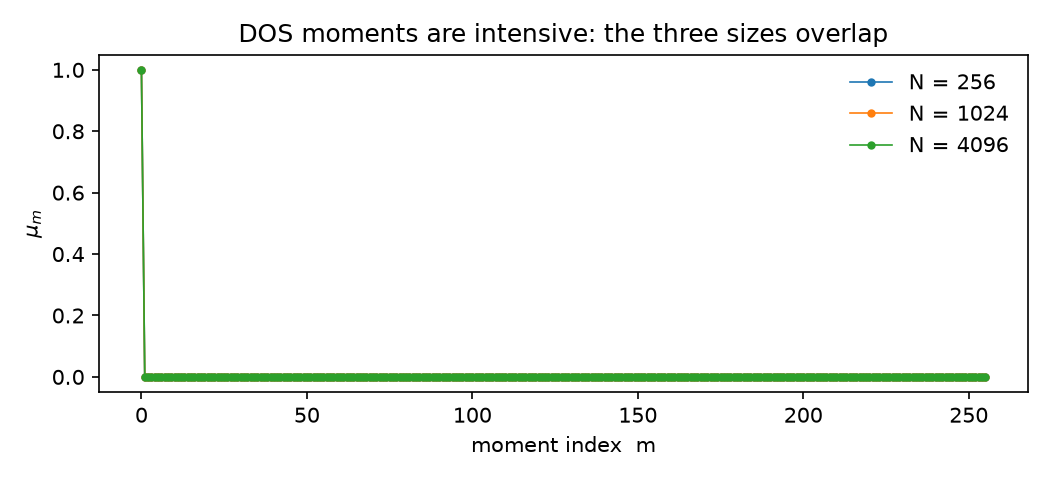
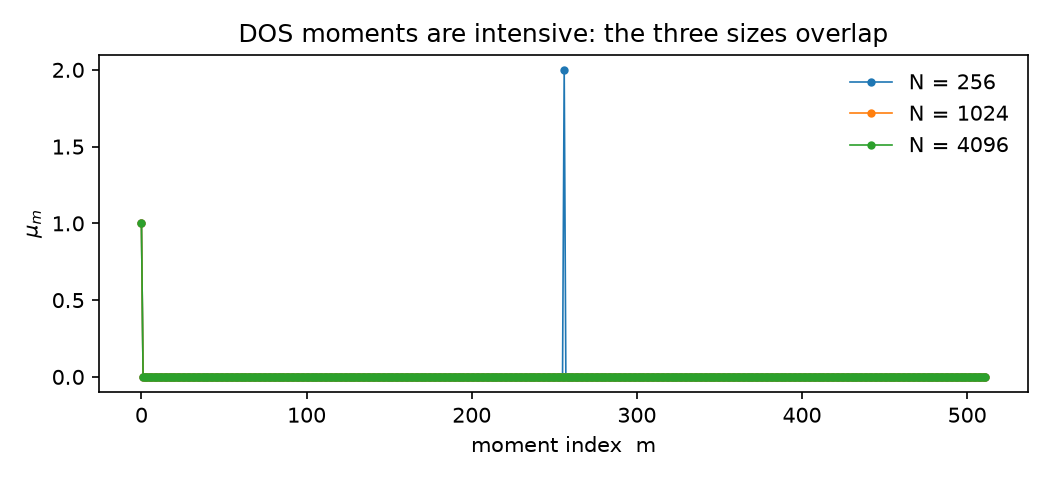
Merge pull request #50 from adamecius/spin-tutorials
Spin tutorials

Pull request: Spin tutorials

diff --git a/examples/05_charge_transport_square/lsqtransport.py b/examples/05_charge_transport_square/lsqtransport.py
@@ -49,9 +49,11 @@ def _run(argv):
 
 
 def diffusion(label):
-    """Run the MSD, reconstruct DeltaX^2(E,t), return (t, D(E,t))."""
-    _run([_bin("inline_compute-kpm-MeanSquareDisplacement"), label, "VX",
-          str(M), str(NTIME), str(TMAX)])
+    """Run the MSD (via `lsquant compute`, mode msd), reconstruct DeltaX^2(E,t)."""
+    with open("msd.json", "w") as f:
+        json.dump({"mode": "msd", "label": label, "operator": "VX",
+                   "num_moments": M, "num_times": NTIME, "tmax": TMAX}, f)
+    _run([_bin("lsquant"), "compute", "--config", "msd.json"])
     mom = sorted(glob.glob("Correlation*%s*chebmomTD" % label))[-1]
     _run([_bin("inline_timeCorrelationsFromChebmom"), mom, str(ETA_MEV), str(E)])
     dat = sorted(glob.glob("mean*%s*EF%f*dat" % (label, E)))[-1]
@@ -131,5 +133,19 @@ def main():
     print("wrote fig_transport.png")
 
 
+def figure_fermi():
+    """Opening figure: the square-lattice band and the E=2t Fermi contour."""
+    k = np.linspace(-np.pi, np.pi, 400); KX, KY = np.meshgrid(k, k)
+    Ek = -2.0 * (np.cos(KX) + np.cos(KY))
+    fig, ax = plt.subplots(figsize=(5.4, 4.4), constrained_layout=True)
+    cf = ax.contourf(KX, KY, Ek, levels=20, cmap="coolwarm", alpha=0.85)
+    ax.contour(KX, KY, Ek, levels=[E], colors="k", linewidths=2.2)
+    ax.set_xlabel("$k_x$"); ax.set_ylabel("$k_y$"); ax.set_aspect("equal")
+    fig.colorbar(cf, ax=ax, label="$E_k$ (eV)")
+    ax.set_title(r"Square-lattice band; black $=E{=}2t$ contour")
+    fig.savefig("fig_fermi.png", dpi=150); print("wrote fig_fermi.png")
+
+
 if __name__ == "__main__":
+    figure_fermi()
     main()

diff --git a/examples/02_localization_1d_chain/lsqloc.py b/examples/02_localization_1d_chain/lsqloc.py
@@ -167,5 +167,24 @@ def demo():
                         M=256, num_times=128, tmax=600, broad=10)
 
 
+def figure_anderson(N=500):
+    """Opening figure: a band-centre eigenstate, extended (clean) vs localized (W=4)."""
+    import matplotlib.pyplot as plt
+
+    def state(W, seed):
+        rng = np.random.default_rng(seed)
+        H = np.diag(rng.uniform(-W / 2, W / 2, N)).astype(float)
+        idx = np.arange(N); H[idx, (idx + 1) % N] = -1; H[(idx + 1) % N, idx] = -1
+        w, v = np.linalg.eigh(H); return np.abs(v[:, np.argmin(np.abs(w))]) ** 2
+    fig, ax = plt.subplots(figsize=(6.4, 3.7))
+    ax.plot(state(0.0, 3), color="#1f77b4", lw=1.0, label=r"clean: extended ($|\psi|^2\sim1/N$)")
+    ax.plot(state(4.0, 3), color="#d62728", lw=1.0, label=r"$W=4$: localized")
+    ax.set_xlabel("site $i$"); ax.set_ylabel(r"$|\psi_i|^2$ (band-centre state)")
+    ax.legend(fontsize=9)
+    ax.set_title("Disorder traps a state that would otherwise fill the chain")
+    fig.tight_layout(); fig.savefig("fig_anderson.png", dpi=150); print("wrote fig_anderson.png")
+
+
 if __name__ == "__main__":
+    figure_anderson()
     demo()

diff --git a/examples/03_haldane_hall/haldane_kspace.py b/examples/03_haldane_hall/haldane_kspace.py
@@ -84,9 +84,28 @@ def figure_phase_diagram(t2=0.15, phi=np.pi / 2):
     print("wrote fig_phase_diagram.png")
 
 
+def figure_bands(Ng=220):
+    """Opening figure: the Haldane density of states, showing the bulk gap."""
+    import matplotlib.pyplot as plt
+    b1 = 2 * np.pi * np.array([1 / 3, 1 / np.sqrt(3)])
+    b2 = 2 * np.pi * np.array([1 / 3, -1 / np.sqrt(3)])
+    Es = []
+    for i in range(Ng):
+        for j in range(Ng):
+            Es += list(np.linalg.eigvalsh(bloch((i + .5) / Ng * b1 + (j + .5) / Ng * b2)))
+    Es = np.array(Es)
+    fig, ax = plt.subplots(figsize=(6.4, 3.7))
+    ax.hist(Es, bins=140, color="#1f77b4", alpha=0.85)
+    ax.axvspan(Es[Es < 0].max(), Es[Es > 0].min(), color="0.85", label="gap (no states)")
+    ax.set_xlabel("energy $E$ (eV)"); ax.set_ylabel("density of states (a.u.)")
+    ax.legend(fontsize=9); ax.set_title(r"The Haldane model is a gapped insulator ($C=+1$)")
+    fig.tight_layout(); fig.savefig("fig_bands.png", dpi=150); print("wrote fig_bands.png")
+
+
 if __name__ == "__main__":
     print(f"Chern (t2=0.15, phi=pi/2, M=0):    {chern_lower():+.3f}  "
           f"(topological, |C| = 1)")
     print(f"Chern (phi=0, trivial):            {chern_lower(phi=0.0):+.3f}")
     print(f"gap at golden parameters:          {gap():.3f} eV")
+    figure_bands()
     figure_phase_diagram()

diff --git a/examples/01_dos_1d_chain/lsqplot.py b/examples/01_dos_1d_chain/lsqplot.py
@@ -190,7 +190,7 @@ def figure_dos(sizes, smallest, M, fixed_broadening_meV, broadenings_meV):
 def demo():
     sizes = [256, 1024, 4096]
     M = 512
-    figure_moments(sizes, M=256)
+    figure_moments(sizes, M=512)   # reach m=256 so the smallest chain's revival is in view
     # Exact-trace moments encode a finite chain only through the aliasing revival at m = N,
     # so the discrete spectrum of the small chain becomes visible once the kernel keeps
     # M_eff >= N moments. With N_small = 256 that needs a broadening below ~24 meV
@@ -202,5 +202,20 @@ def demo():
                broadenings_meV=[80, 24, 10])
 
 
+def figure_levels(N=64):
+    """Opening figure: the discrete chain spectrum under the smooth bulk DOS."""
+    import matplotlib.pyplot as plt
+    Ek = 2 * np.cos(2 * np.pi * np.arange(N) / N)
+    E = np.linspace(-1.999, 1.999, 800); rho = 1 / (np.pi * np.sqrt(4 - E ** 2))
+    fig, ax = plt.subplots(figsize=(6.4, 3.7))
+    ax.vlines(Ek, 0, 0.6, color="0.6", lw=0.7, alpha=0.8, label="%d chain levels" % N)
+    ax.plot(E, rho, color="#1f77b4", lw=2, label=r"smooth bulk DOS $1/\pi\sqrt{4-E^2}$")
+    ax.set_xlabel("energy $E$ (eV)"); ax.set_ylabel("density of states (1/eV)")
+    ax.set_xlim(-2.2, 2.2); ax.set_ylim(0, 0.65); ax.legend(fontsize=9)
+    ax.set_title("A finite chain has a discrete spectrum; the bulk DOS is smooth")
+    fig.tight_layout(); fig.savefig("fig_levels.png", dpi=150); print("wrote fig_levels.png")
+
+
 if __name__ == "__main__":
+    figure_levels()
     demo()

diff --git a/examples/04_spin_precession_magnetic_chain/lsqspin.py b/examples/04_spin_precession_magnetic_chain/lsqspin.py
@@ -74,5 +74,19 @@ def main():
     print("wrote fig_precession.png")
 
 
+def figure_zeeman(J=0.1):
+    """Opening figure: the exchange-split spin bands."""
+    k = np.linspace(-np.pi, np.pi, 500)
+    fig, ax = plt.subplots(figsize=(6.4, 3.7))
+    ax.plot(k, -2 * np.cos(k) - J, color="#1f77b4", lw=1.8, label=r"spin $\uparrow$")
+    ax.plot(k, -2 * np.cos(k) + J, color="#d62728", lw=1.8, label=r"spin $\downarrow$")
+    ax.annotate(r"$2J_{\rm ex}$", xy=(0, -2), xytext=(0.8, -1.6),
+                arrowprops=dict(arrowstyle="<->"), fontsize=11)
+    ax.set_xlabel("$k$"); ax.set_ylabel("energy (eV)"); ax.legend(fontsize=9)
+    ax.set_title(r"The exchange field splits $\uparrow$ and $\downarrow$ by $2J_{\rm ex}$")
+    fig.tight_layout(); fig.savefig("fig_zeeman.png", dpi=150); print("wrote fig_zeeman.png")
+
+
 if __name__ == "__main__":
+    figure_zeeman()
     main()

diff --git a/examples/01_dos_1d_chain/README.md b/examples/01_dos_1d_chain/README.md
@@ -45,8 +45,13 @@ $$ \mu_m = \frac{1}{N}\sum_{k=0}^{N-1}\cos\!\Big(\frac{2\pi m k}{N}\Big) = \delt
 The bulk density of states is exactly the Chebyshev weight, so its expansion
 terminates at the very first term: $\mu_0 = 1$ and nothing else, all the way up to
 $m = N$. The finiteness of the chain changes no low-order moment. It hides in one
-place only, a revival where $\mu_m$ jumps back to $1$ at $m = N$ and every multiple
+place only, a revival where $\mu_m$ spikes again at $m = N$ and every multiple
 after, the spectrum reminding us it is discrete.
+
+The whole problem sits in one frame below: a finite comb of sharp levels under the
+smooth curve we wish we had.
+
+![A finite chain has a discrete spectrum of levels; the smooth bulk DOS is the target](fig_levels.png)
 
 ## Step 1: build the chain
 
@@ -92,7 +97,7 @@ Repeat for `chain1d_N1024` and `chain1d_N4096`.
 Read the moments back and overlay the three sizes:
 
 ```bash
-python -c "import lsqplot; lsqplot.figure_moments([256, 1024, 4096], M=256)"
+python -c "import lsqplot; lsqplot.figure_moments([256, 1024, 4096], M=512)"
 ```
 
 ![All three chain sizes overlap at the m=0 moment; finiteness shows only as a revival at m=N](fig_moments.png)
@@ -101,9 +106,11 @@ The three curves are indistinguishable below their revivals: every one sits at
 $\mu_m = \delta_{m,0}$. The density of states is a per-site property, so its
 moments do not care how long the chain is. That is what intensive means here, and
 it is why one expansion can describe a chain of 256 atoms or 256 million. The
-curves part company only at the revival: the $N = 256$ moments spike back to $1$
-at $m = 256$, the $N = 1024$ moments at $m = 1024$, and never before. A chain
-announces its finite size at exactly $m = N$.
+curves part company only at the revival: the $N = 256$ moments spike back up at
+$m = 256$ (to $2$, since the plotted Chebyshev moments carry the conventional
+factor of $2$ for $m>0$), while the $N = 1024$ and $N = 4096$ chains revive only
+at $m = 1024$ and $m = 4096$, beyond this window. A chain announces its finite
+size at exactly $m = N$, and never before.
 
 ## Step 4: reconstruct the DOS
 

diff --git a/examples/05_charge_transport_square/README.md b/examples/05_charge_transport_square/README.md
@@ -49,6 +49,11 @@ The single idea of this tutorial: as $W$ grows, $D_{\max}$ falls, so $\sigma$ an
 $\ell$ fall with it, and past a point the diffusion coefficient stops plateauing
 and instead peaks and decays, the fingerprint of (weak) localization.
 
+The clean starting point is a metal: the square-lattice band gives a Fermi contour
+of states that carry current freely, which disorder will scatter.
+
+![The square-lattice band and its E=2t Fermi contour, the clean metal that disorder will scatter into a diffusing then localized state](fig_fermi.png)
+
 ## Step 1: build a disordered square lattice
 
 The generator writes the Hamiltonian, the $x$-velocity operator, the disorder-widened
@@ -69,7 +74,11 @@ Run the KPM mean-square displacement and reconstruct $\Delta X^2$ at the working
 energy:
 
 ```bash
-inline_compute-kpm-MeanSquareDisplacement square_L200_W1 VX 256 160 150
+cat > run_msd.json <<'JSON'
+{ "mode": "msd", "label": "square_L200_W1", "operator": "VX",
+  "num_moments": 256, "num_times": 160, "tmax": 150 }
+JSON
+lsquant compute --config run_msd.json
 inline_timeCorrelationsFromChebmom Correlation*square_L200_W1*chebmomTD 80 2
 ```
 

diff --git a/examples/03_haldane_hall/README.md b/examples/03_haldane_hall/README.md
@@ -44,6 +44,12 @@ empty, so $\sigma^{\mathrm{surface}}$ vanishes and the entire quantized plateau 
 carried by the Fermi sea. That is why a topological insulator can pass a Hall
 current while passing no longitudinal current at all.
 
+The starting point is the spectrum itself: the Haldane model is an insulator with a
+clean gap at the neutrality point, and that gap is what carries the quantized Hall
+current.
+
+![The Haldane density of states has a gap at the neutrality point, an insulator that still carries a Hall current](fig_bands.png)
+
 ## Step 1: stage the operators
 
 The committed Haldane operators are the verified $C = +1$ model. Stage them into

diff --git a/examples/04_spin_precession_magnetic_chain/README.md b/examples/04_spin_precession_magnetic_chain/README.md
@@ -38,6 +38,12 @@ $2\pi/\omega = 20.7\ \mathrm{fs}$. LinQT obtains this by evolving the spin opera
 in time with a Chebyshev expansion of $U(t) = e^{-iHt/\hbar}$, never diagonalizing
 $H$.
 
+The whole effect starts from the band structure: the exchange field splits the two
+spin channels, and a spin built from both of them precesses at the splitting
+frequency.
+
+![The exchange field splits the up and down spin bands by 2 J_ex, the splitting that sets the precession frequency](fig_zeeman.png)
+
 ## Step 1: stage the operators
 
 The operators are produced by [wannier2sparse](https://github.com/adamecius/wannier2sparse)

diff --git a/examples/02_localization_1d_chain/README.md b/examples/02_localization_1d_chain/README.md
@@ -42,6 +42,11 @@ plateau whose height is set by $\xi(E)$, so $\sqrt{\mathrm{MSD}_{\mathrm{plateau
 tracks the localization length. The moments of that spreading come from the same
 Chebyshev recursion that gave the density of states.
 
+The effect is already visible in a single eigenstate: a band-centre state fills the
+whole clean chain, but a little disorder pins it to a handful of sites.
+
+![A band-centre state is extended in the clean chain but exponentially localized once disorder is added](fig_anderson.png)
+
 ## Step 1: build a disordered chain
 
 Onsite disorder sits on the diagonal, so the velocity operator stays the clean